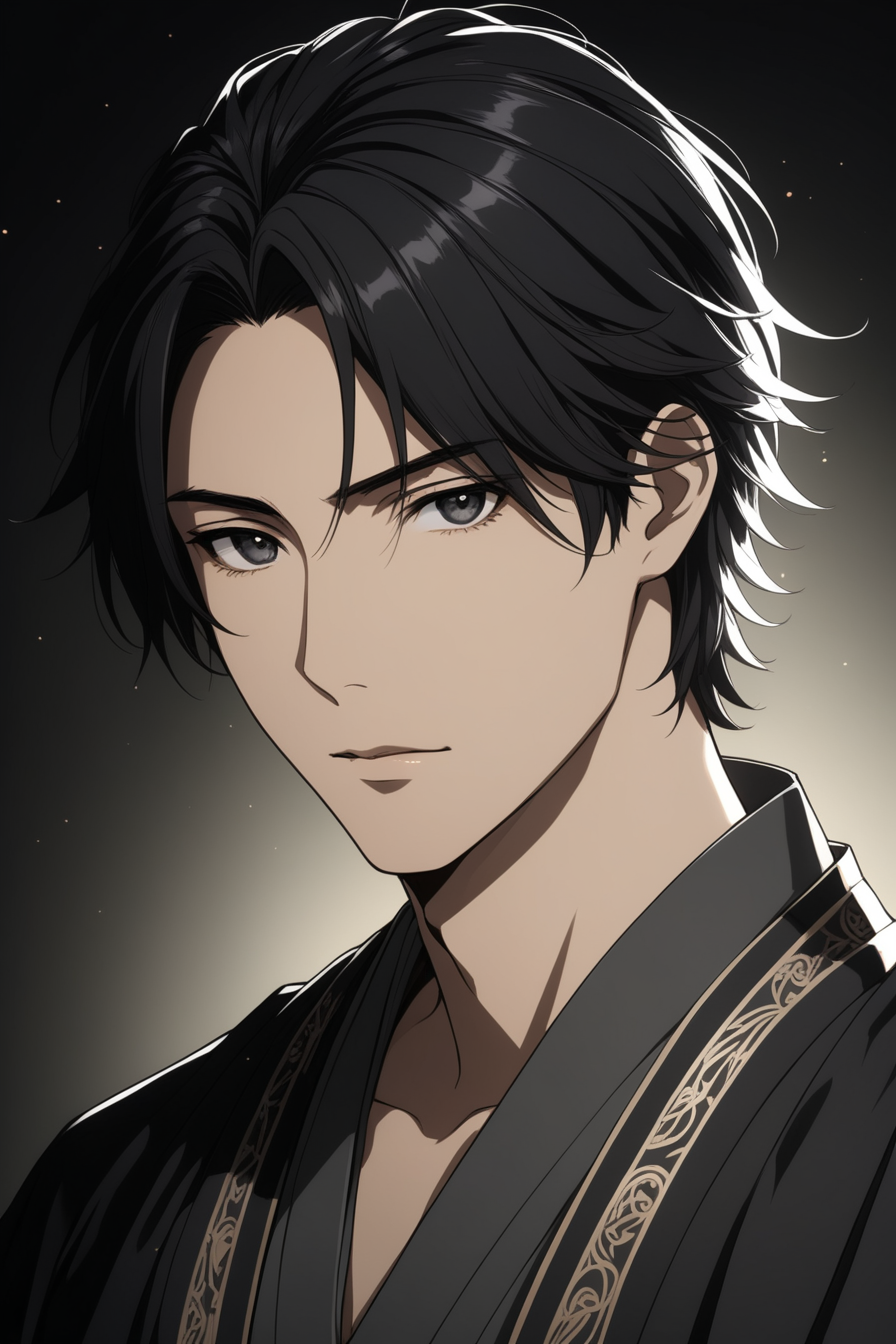
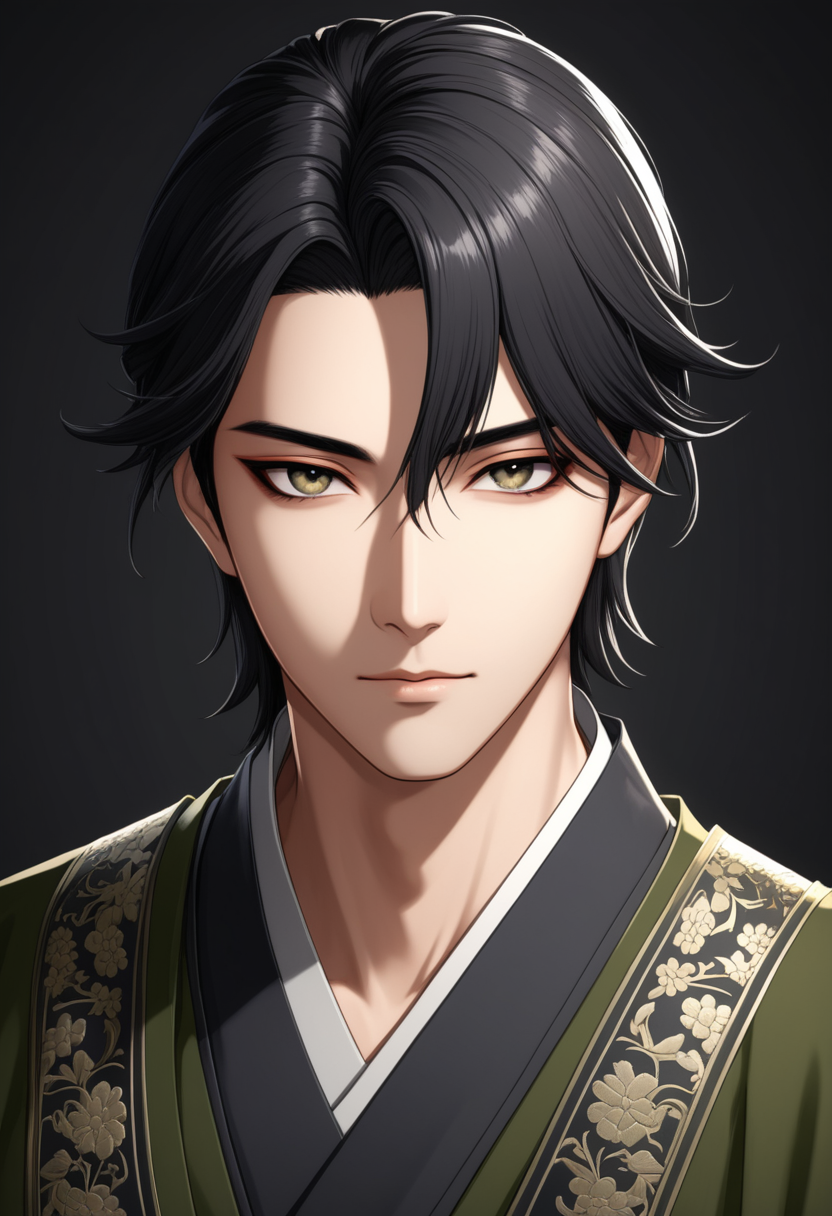
feat(v33): 24 角色 2.5D 立绘批量重生成 + 阿栗/木兰/大魏 试镜 demo（2 句台词+烧录字幕）
- 2.5D 立绘：按合同外观拼 prompt_extra 重生成 24/24（993.1s，GPU 并发时个别 245s），旧版备份 tmp/v33/backup_25d
- 试镜 demo：阿栗/木兰/大魏 各 2 句台词 + 烧录字幕，1024x576 含音轨；/media/character_demos/*_audition_sub.mp4
- 证据：tmp/v33（2.5D 旧新对比、24 总览、试镜帧 sheet、字幕帧）；docs/V33_CHARACTER_SHOWCASE.md

diff --git a/docs/V33_CHARACTER_SHOWCASE.md b/docs/V33_CHARACTER_SHOWCASE.md
@@ -1,0 +1,32 @@
+# V33 附加交付：2.5D 立绘批量重生成 + 角色试镜 demo（阿栗/木兰/大魏）
+
+> 本文件记录与 V33 试镜字幕功能同批完成的两项展示型交付。
+
+## 1. 24 角色 2.5D 立绘批量重生成
+
+- 方式：`POST /api/v5/characters/{id}/art {style:"stylized_25d", prompt_extra, force:true}`，prompt_extra 按合同拼「2.5D anime / 3D anime render / cel-shaded CG + 性别/年龄/发色发型/服装/配饰 + 时代」
+- 备份旧图：`tmp/v33/backup_25d/<id>.png`
+- 结果：**24/24 完成**，总耗时 993.1s（其中 3 条因 GPU 被并发任务占用各约 245s，其余 10–15s/条；robot 首次连接中断后重试成功）
+- 产物：`assets/v5/characters/<id>/portrait_25d.png`（24 张，约 24MB），已提交
+- 对比：`tmp/v33/p25d_old_vs_new.jpg`（6 角色旧/新对比）、`tmp/v33/p25d_all_24.jpg`（24 角色总览）
+- 角色详情「立绘版本 → 2.5D」可直接查看
+
+## 2. 角色试镜 demo（2 句台词 + 烧录字幕）
+
+使用 V33 audition API（`lines[]` + `subtitles:true`，写实立绘、角色音色、H3 图生视频、白字黑边字幕）：
+
+| 角色 | 台词 | job | 时长/大小 | 看片 |
+|---|---|---|---|---|
+| 阿栗 | 大家好，我是阿栗。/ 今天想跟你聊聊，怎么把一个脑洞，变成一支片子。 | `au_24f9d7b19fb5`（脚本中断前完成） | 7.29s / 968,806B | `/media/character_demos/ali_audition_sub.mp4` |
+| 木兰 | 我是木兰。/ 这一场，从替父从军开始。 | `au_8c78a542741d` | 5.17s / 763,983B | `/media/character_demos/mulan_audition_sub.mp4` |
+| 大魏 | 我是大魏。/ 深夜的便利店，比白天更热闹。 | `au_464cb2a1c0df` | 5.88s | `/media/character_demos/dawei_audition_sub.mp4` |
+
+- 三条均 1024×576、含音轨、字幕烧录可见（`tmp/v33/audition_demos_sheet.jpg`）
+- SRT：`tmp/v33/demos/<char>_audition.srt`（阿栗 2 条、木兰 2 条、大魏 2 条）
+- 说明：demo 脚本在第三条提交后轮询时遇到本地连接中止（httpx ReadError），任务本身在后台正常完成；已从 API 取回结果
+
+## 3. 证据
+- 2.5D 对比/总览：`tmp/v33/p25d_old_vs_new.jpg`、`tmp/v33/p25d_all_24.jpg`
+- 试镜帧 sheet：`tmp/v33/audition_demos_sheet.jpg`
+- 字幕功能证据：`tmp/v33/frame_sub.png`（后端）、`tmp/v33/ui/`（前端 6 张）、`tmp/v33/lead/`
+- 文档：`docs/V33_AUDITION_SUBTITLES.md`（功能交付）
